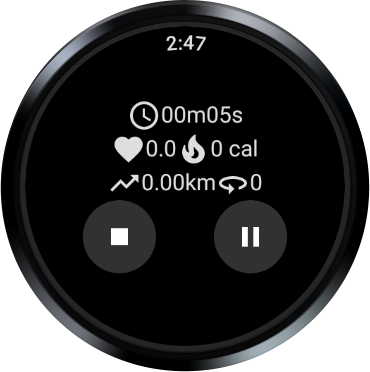
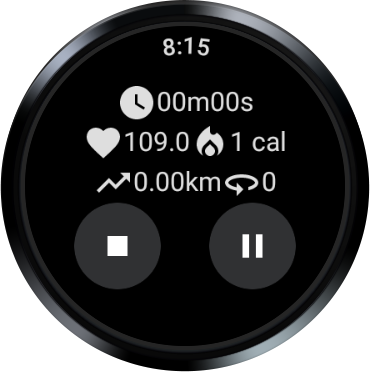
Elapsed now consistent across app dismissal

diff --git a/health-services/ExerciseSampleCompose/app/src/main/java/com/example/exercisesamplecompose/presentation/ExerciseScreen.kt b/health-services/ExerciseSampleCompose/app/src/main/java/com/example/exercisesamplecompose/presentation/ExerciseScreen.kt
@@ -31,23 +31,19 @@ import androidx.compose.material.icons.filled.TrendingUp
 import androidx.compose.material.icons.filled.WatchLater
 import androidx.compose.material.icons.filled._360
 import androidx.compose.runtime.Composable
-import androidx.compose.runtime.DisposableEffect
 import androidx.compose.runtime.LaunchedEffect
 import androidx.compose.runtime.derivedStateOf
 import androidx.compose.runtime.getValue
 import androidx.compose.runtime.mutableStateOf
 import androidx.compose.runtime.remember
 import androidx.compose.runtime.rememberCoroutineScope
+import androidx.compose.runtime.saveable.rememberSaveable
 import androidx.compose.runtime.setValue
 import androidx.compose.ui.Modifier
-import androidx.compose.ui.platform.LocalLifecycleOwner
 import androidx.compose.ui.res.stringResource
 import androidx.health.services.client.data.DataPoint
 import androidx.health.services.client.data.DataType
 import androidx.health.services.client.data.ExerciseState
-import androidx.lifecycle.Lifecycle
-import androidx.lifecycle.LifecycleEventObserver
-import androidx.lifecycle.LifecycleOwner
 import androidx.lifecycle.compose.collectAsStateWithLifecycle
 import androidx.navigation.NavHostController
 import androidx.wear.compose.material.Button
@@ -86,9 +82,9 @@ fun ExerciseScreen(
     onStartClick: () -> Unit = {},
     serviceState: ServiceState,
     navController: NavHostController,
-    lifecycleOwner: LifecycleOwner = LocalLifecycleOwner.current,
 ) {
     val chronoTickJob = remember { mutableStateOf<Job?>(null) }
+
     /** Only collect metrics while we are connected to the Foreground Service. **/
     when (serviceState) {
         is ServiceState.Connected -> {
@@ -109,15 +105,17 @@ fun ExerciseScreen(
             ) tempHeartRate.value =
                 getExerciseMetrics.collectAsStateWithLifecycle().value?.getData(DataType.HEART_RATE_BPM)
                     ?.last()?.value!!
-            else tempHeartRate.value = tempHeartRate.value
+                else tempHeartRate.value = tempHeartRate.value
 
+            /**Store previous calorie and distance values to avoid rendering null values from
+             * [getExerciseMetrics] flow**/
             val distance =
                 getExerciseMetrics.collectAsStateWithLifecycle().value?.getData(DataType.DISTANCE_TOTAL)?.total
-            val tempDistance = remember { mutableStateOf(0.0) }
+            val tempDistance = rememberSaveable { mutableStateOf(0.0) }
 
             val calories =
                 getExerciseMetrics.collectAsStateWithLifecycle().value?.getData(DataType.CALORIES_TOTAL)?.total
-            val tempCalories = remember { mutableStateOf(0.0) }
+            val tempCalories = rememberSaveable { mutableStateOf(0.0) }
 
             val averageHeartRate =
                 getExerciseMetrics.collectAsStateWithLifecycle().value?.getData(DataType.HEART_RATE_BPM_STATS)?.average
@@ -148,34 +146,6 @@ fun ExerciseScreen(
                     ).toString()
                 }
             }
-            // When the screen comes on, or goes off, then the ticker coroutine needs to either be
-            // started or stopped, if the exercise is ACTIVE. This is done by observing lifecycle
-            // events
-            DisposableEffect(lifecycleOwner) {
-                val observer = LifecycleEventObserver { _, event ->
-                    if (event == Lifecycle.Event.ON_START && exerciseStateChange is ExerciseStateChange.ActiveStateChange ||
-                        exerciseStateChange is ExerciseStateChange.PausingStateChange) {
-                        val activeStateChange =
-                            exerciseStateChange as ExerciseStateChange.ActiveStateChange
-                        val timeOffset =
-                            (System.currentTimeMillis() - activeStateChange.durationCheckPoint.time.toEpochMilli())
-                        baseActiveDuration.value =
-                            activeStateChange.durationCheckPoint.activeDuration.plusMillis(
-                                timeOffset
-                            )
-                        chronoTickJob.value = startTick(chronoTickJob.value, scope) { tickerTime ->
-                            activeDuration = baseActiveDuration.value.plusMillis(tickerTime)
-
-                        }
-                    } else if (event == Lifecycle.Event.ON_STOP) {
-                        chronoTickJob.value?.cancel()
-                    }
-                }
-                lifecycleOwner.lifecycle.addObserver(observer)
-                onDispose {
-                    lifecycleOwner.lifecycle.removeObserver(observer)
-                }
-            }
 
             // Instead of watching the ExerciseState state, or active duration, I've defined a
             // ExerciseStateChange object in the service (and exposed it in the view), which is only
@@ -190,7 +160,8 @@ fun ExerciseScreen(
             // state changed to active.
             LaunchedEffect(exerciseStateChange) {
                 if (exerciseStateChange is ExerciseStateChange.ActiveStateChange ||
-                    exerciseStateChange is ExerciseStateChange.PausingStateChange) {
+                    exerciseStateChange is ExerciseStateChange.PausingStateChange
+                ) {
                     val activeStateChange =
                         exerciseStateChange as ExerciseStateChange.ActiveStateChange
                     val timeOffset =
@@ -245,7 +216,6 @@ fun ExerciseScreen(
                                 contentDescription = stringResource(id = R.string.calories)
                             )
                             if (calories != null) {
-
                                 CaloriesText(
                                     calories
                                 )
@@ -303,7 +273,6 @@ fun ExerciseScreen(
                                 ) { popUpTo(Screens.ExerciseScreen.route) { inclusive = true } }
 
                                 Button(onClick = { onStartClick() }) {
-                                    // Text(text = startOrEnd)
                                     Icon(
                                         imageVector = startOrEnd,
                                         contentDescription = stringResource(

diff --git a/health-services/ExerciseSampleCompose/app/src/main/java/com/example/exercisesamplecompose/service/ExerciseService.kt b/health-services/ExerciseSampleCompose/app/src/main/java/com/example/exercisesamplecompose/service/ExerciseService.kt
@@ -85,7 +85,8 @@ class ForegroundService : LifecycleService() {
     private val _locationAvailabilityState = MutableStateFlow(LocationAvailability.UNKNOWN)
     val locationAvailabilityState: StateFlow<LocationAvailability> = _locationAvailabilityState
 
-    private var lastActiveDurationCheckpoint : ExerciseUpdate.ActiveDurationCheckpoint? = null
+    private var lastActiveDurationCheckpoint: ExerciseUpdate.ActiveDurationCheckpoint? = null
+
 
     /**
      * Prepare exercise in this service's coroutine context.
@@ -138,7 +139,8 @@ class ForegroundService : LifecycleService() {
      * consider implementing a "press" to mark lap feature**/
     fun markLap() {
         lifecycleScope.launch {
-            healthServicesManager.markLap()}
+            healthServicesManager.markLap()
+        }
     }
 
 
@@ -153,7 +155,6 @@ class ForegroundService : LifecycleService() {
                 // We may have been restarted by the system. Manage our lifetime accordingly.
                 stopSelfIfNotRunning()
             }
-
             // Start collecting exercise information. We might stop shortly (see above), in which
             // case launchWhenStarted takes care of canceling this coroutine.
             lifecycleScope.launch {
@@ -189,7 +190,6 @@ class ForegroundService : LifecycleService() {
                         healthServicesManager.endExercise()
                     }
                 }
-
                 // We have nothing to do, so we can stop.
                 stopSelf()
             }
@@ -256,7 +256,12 @@ class ForegroundService : LifecycleService() {
         _exerciseState.value = exerciseUpdate.exerciseStateInfo.state
         _exerciseMetrics.value = exerciseUpdate.latestMetrics
         _exerciseDurationUpdate.value =
-            exerciseUpdate.activeDurationCheckpoint?.let { ActiveDurationUpdate(it.activeDuration, Instant.now()) }
+            exerciseUpdate.activeDurationCheckpoint?.let {
+                ActiveDurationUpdate(
+                    it.activeDuration,
+                    Instant.now()
+                )
+            }
         lastActiveDurationCheckpoint = exerciseUpdate.activeDurationCheckpoint
 
     }
@@ -328,7 +333,6 @@ class ForegroundService : LifecycleService() {
     private fun buildNotification(): Notification {
         // Make an intent that will take the user straight to the exercise UI.
         val notificationIntent = Intent(this, MainActivity::class.java)
-
         val pendingIntent = PendingIntent.getActivity(
             this,
             0,
@@ -349,7 +353,10 @@ class ForegroundService : LifecycleService() {
         // Wear OS user interface, so that users can stay more engaged with long running tasks.
 
         val duration = if (lastActiveDurationCheckpoint != null) {
-            lastActiveDurationCheckpoint!!.activeDuration + Duration.between(lastActiveDurationCheckpoint!!.time, Instant.now())
+            lastActiveDurationCheckpoint!!.activeDuration + Duration.between(
+                lastActiveDurationCheckpoint!!.time,
+                Instant.now()
+            )
         } else {
             Duration.ZERO
         }
@@ -373,8 +380,6 @@ class ForegroundService : LifecycleService() {
     }
 
 
-
-
     /** Local clients will use this to access the service. */
     inner class LocalBinder : Binder() {
         fun getService() = this@ForegroundService
@@ -382,9 +387,7 @@ class ForegroundService : LifecycleService() {
 
     companion object {
         private const val NOTIFICATION_ID = 1
-
-        // TODO: Fix package name
-        private const val NOTIFICATION_CHANNEL = "com.example.exercise.ONGOING_EXERCISE"
+        private const val NOTIFICATION_CHANNEL = "com.example.exercisesamplecompose.ONGOING_EXERCISE"
         private const val NOTIFICATION_CHANNEL_DISPLAY = "Ongoing Exercise"
         private const val NOTIFICATION_TITLE = "Exercise Sample"
         private const val NOTIFICATION_TEXT = "Ongoing Exercise"
@@ -407,9 +410,15 @@ data class ActiveDurationUpdate(
 )
 
 sealed class ExerciseStateChange(val exerciseState: ExerciseState) {
-    data class ActiveStateChange(val durationCheckPoint: ExerciseUpdate.ActiveDurationCheckpoint) : ExerciseStateChange(
-        ExerciseState.ACTIVE)
-    data class PausingStateChange(val durationCheckPoint: ExerciseUpdate.ActiveDurationCheckpoint) : ExerciseStateChange(
-        ExerciseState.USER_PAUSING)
-    data class OtherStateChange(val state: ExerciseState): ExerciseStateChange(state)
+    data class ActiveStateChange(val durationCheckPoint: ExerciseUpdate.ActiveDurationCheckpoint) :
+        ExerciseStateChange(
+            ExerciseState.ACTIVE
+        )
+
+    data class PausingStateChange(val durationCheckPoint: ExerciseUpdate.ActiveDurationCheckpoint) :
+        ExerciseStateChange(
+            ExerciseState.USER_PAUSING
+        )
+
+    data class OtherStateChange(val state: ExerciseState) : ExerciseStateChange(state)
 }

diff --git a/health-services/ExerciseSampleCompose/app/src/main/java/com/example/exercisesamplecompose/presentation/ExerciseViewModel.kt b/health-services/ExerciseSampleCompose/app/src/main/java/com/example/exercisesamplecompose/presentation/ExerciseViewModel.kt
@@ -17,11 +17,9 @@ package com.example.exercisesamplecompose.presentation
 
 import android.Manifest
 import android.content.ComponentName
-import android.content.ContentValues.TAG
 import android.content.Context
 import android.content.Intent
 import android.os.IBinder
-import android.util.Log
 import androidx.compose.runtime.MutableState
 import androidx.compose.runtime.mutableStateOf
 import androidx.health.services.client.data.DataPointContainer
@@ -75,14 +73,12 @@ class ExerciseViewModel @Inject constructor(
                     exerciseStateChange = it.exerciseStateChange
                 )
             }
-            Log.i(TAG, "onServiceConnected")
             bound.value = true
         }
 
         override fun onServiceDisconnected(arg0: ComponentName) {
             bound.value = false
             exerciseService = null
-            Log.i(TAG, "onServiceDisconnected")
             exerciseServiceState.value = ServiceState.Disconnected
         }
 
@@ -109,7 +105,7 @@ class ExerciseViewModel @Inject constructor(
 
     override fun onCleared() {
         super.onCleared()
-        Intent(applicationContext, ForegroundService::class.java).also { intent ->
+        Intent(applicationContext, ForegroundService::class.java).also {
             applicationContext.unbindService(connection)
         }
     }
@@ -119,7 +115,6 @@ class ExerciseViewModel @Inject constructor(
     fun pauseExercise() = viewModelScope.launch { exerciseService?.pauseExercise() }
     fun endExercise() = viewModelScope.launch { exerciseService?.endExercise() }
     fun resumeExercise() = viewModelScope.launch { exerciseService?.resumeExercise() }
-
 }
 
 /** Store exercise values in the service state. While the service is connected,

diff --git a/health-services/ExerciseSampleCompose/app/src/main/java/com/example/exercisesamplecompose/presentation/ExerciseSampleApp.kt b/health-services/ExerciseSampleCompose/app/src/main/java/com/example/exercisesamplecompose/presentation/ExerciseSampleApp.kt
@@ -33,7 +33,8 @@ import com.example.exercisesamplecompose.Screens
 
 @Composable
 fun ExerciseSampleApp(
-    navController: NavHostController, startDestination: String
+    navController: NavHostController,
+    startDestination: String
 ) {
     SwipeDismissableNavHost(
         navController = navController, startDestination = startDestination
@@ -68,6 +69,7 @@ fun ExerciseSampleApp(
                             inclusive = false
                         }
                     }
+
                 },
                 prepareExercise = { viewModel.prepareExercise() },
                 onStart = { viewModel.startExercise() },
@@ -86,7 +88,7 @@ fun ExerciseSampleApp(
                 onResumeClick = { viewModel.resumeExercise() },
                 onStartClick = { viewModel.startExercise() },
                 serviceState = serviceState,
-                navController = navController,
+                navController = navController
             )
         }
 
@@ -110,10 +112,12 @@ fun ExerciseSampleApp(
                             inclusive = true
                         }
                     }
-                })
+                }
+            )
         }
     }
 }
+
 
 
 

diff --git a/health-services/ExerciseSampleCompose/app/src/main/java/com/example/exercisesamplecompose/data/HealthServicesManager.kt b/health-services/ExerciseSampleCompose/app/src/main/java/com/example/exercisesamplecompose/data/HealthServicesManager.kt
@@ -151,7 +151,7 @@ class HealthServicesManager @Inject constructor(
         try {
             exerciseClient.prepareExerciseAsync(warmUpConfig).await()
         } catch (e: Exception) {
-            Log.e("Output", "Prepare exercise failed - ${e.message}")
+            Log.e(OUTPUT, "Prepare exercise failed - ${e.message}")
         }
     }
 
@@ -182,7 +182,7 @@ class HealthServicesManager @Inject constructor(
      * When the flow starts, it will register an [ExerciseUpdateCallback] and start to emit
      * messages. When there are no more subscribers, or when the coroutine scope is
      * cancelled, this flow will unregister the listener.
-     * [CallbackFlow] is used to bridge between a callback-based API and Kotlin flows.
+     * [callbackFlow] is used to bridge between a callback-based API and Kotlin flows.
      */
     val exerciseUpdateFlow = callbackFlow {
         val callback = object : ExerciseUpdateCallback {

diff --git a/health-services/ExerciseSampleCompose/app/src/main/java/com/example/exercisesamplecompose/MainActivity.kt b/health-services/ExerciseSampleCompose/app/src/main/java/com/example/exercisesamplecompose/MainActivity.kt
@@ -40,22 +40,25 @@ class MainActivity : FragmentActivity() {
         super.onCreate(savedInstanceState)
 
         lifecycleScope.launch {
+
             /** Check if we have an active exercise. If true, set our destination as the Exercise Screen.
              *  If false, route to preparing a new exercise. **/
             val destination = when (healthServicesManager.isExerciseInProgress()) {
                 false -> Screens.StartingUp.route
                 true -> Screens.ExerciseScreen.route
             }
+
             setContent {
                 navController = rememberSwipeDismissableNavController()
                 ExerciseSampleApp(
-                    navController = navController,
+                    navController,
                     startDestination = destination
                 )
 
-            }
-        }
 
+            }
+
+        }
     }
 
 
